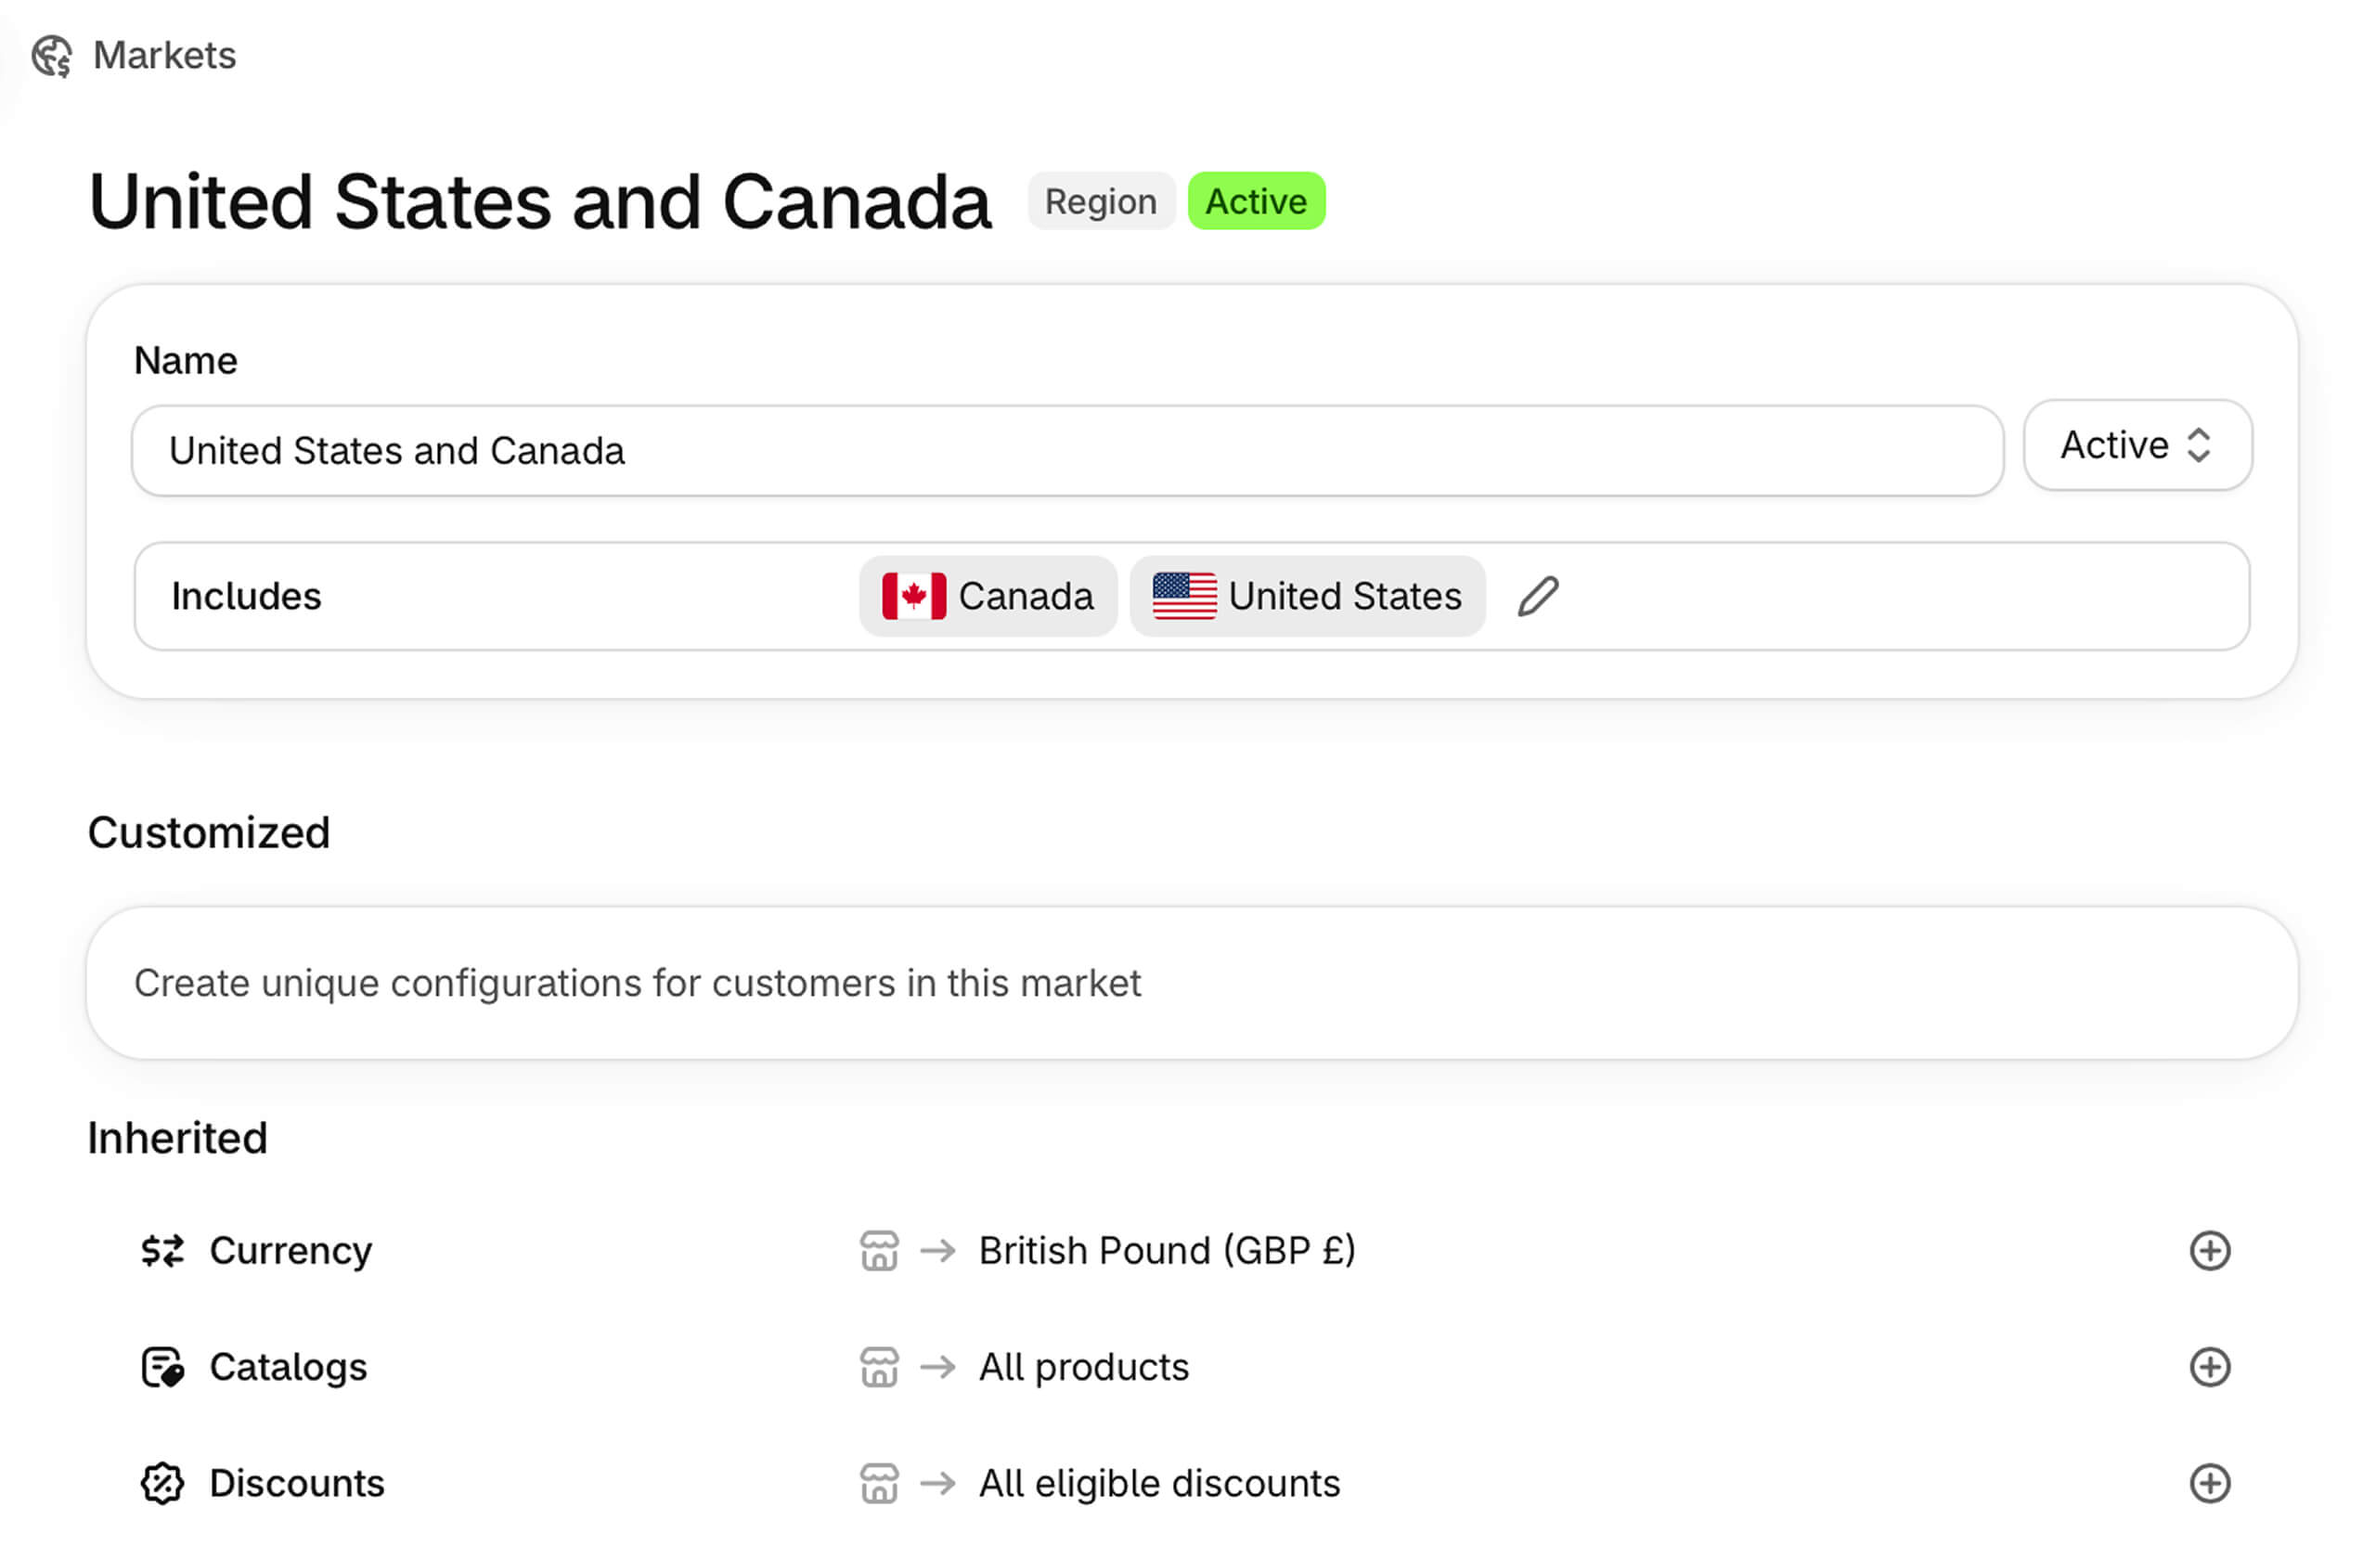
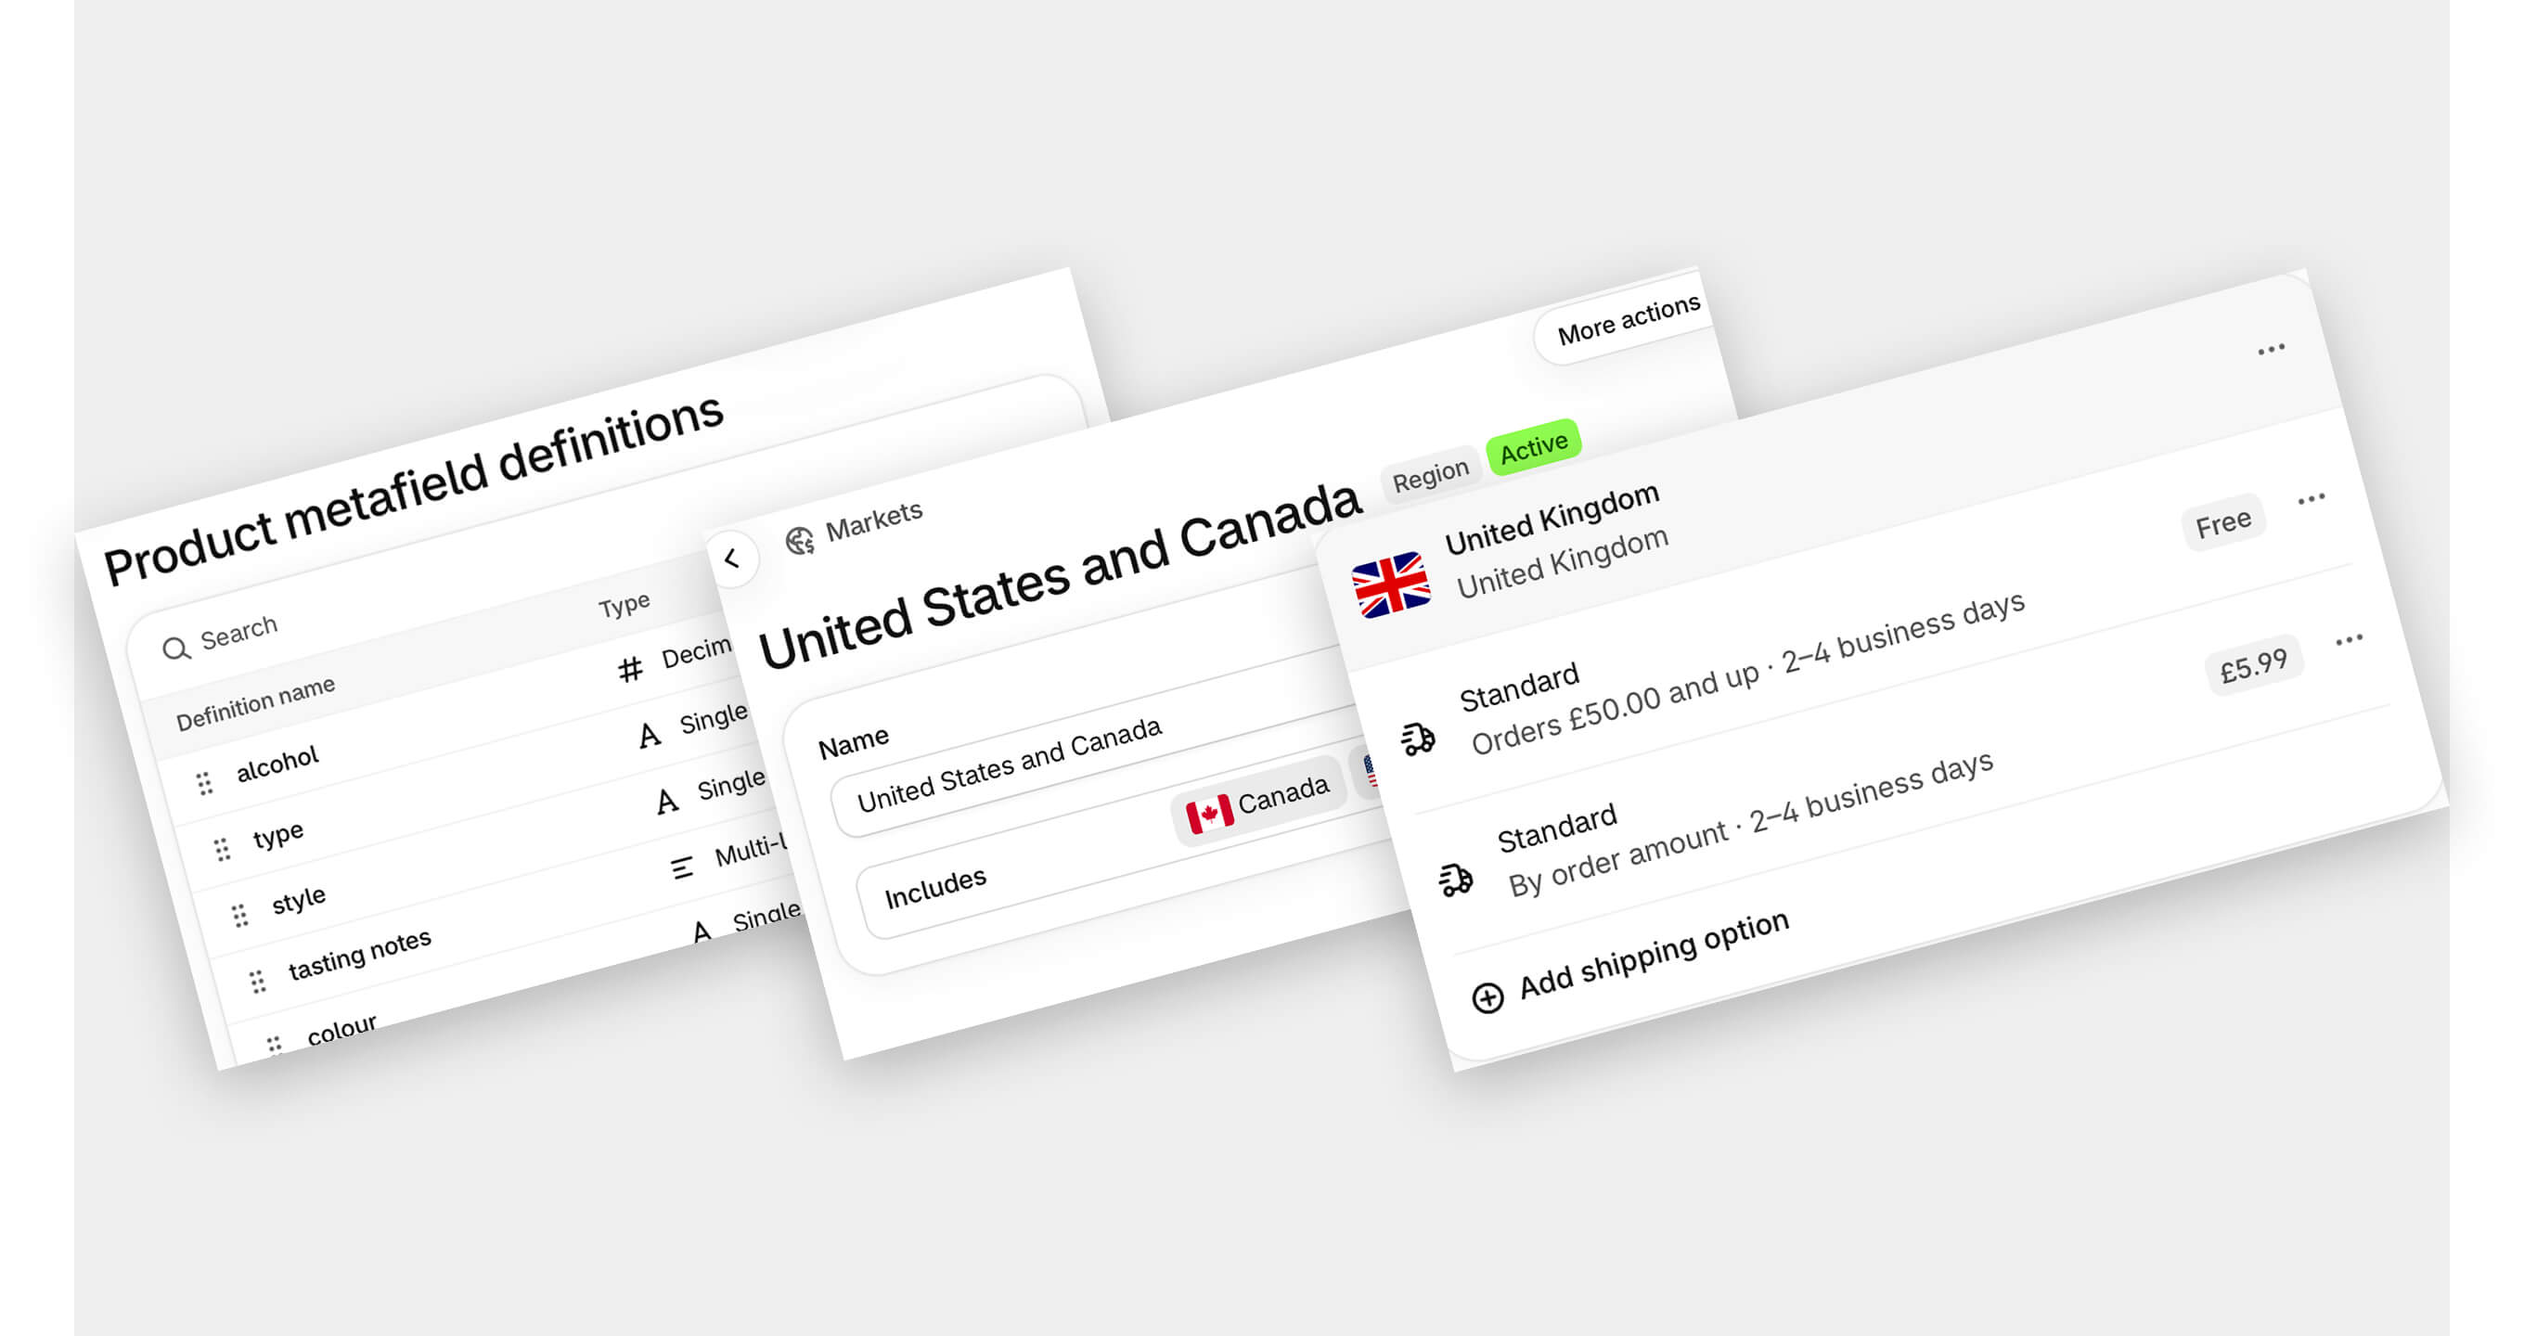
services amends

diff --git a/index.html b/index.html
@@ -66,7 +66,7 @@
       </div>
 
       <!-- grid -->
-      <div class="grid grid-cols-1 md:grid-cols-2 lg:grid-cols-3 gap-4">
+      <div class="grid grid-cols-1 md:grid-cols-2 gap-4">
 
         <!-- Themes -->
         <div class="mx-1 rounded-xl services-bg p-0.5" data-aos="fade-up" data-aos-delay="0">
@@ -125,44 +125,31 @@
           </div>
         </div>
 
-        <div class="mx-1 rounded-xl services-bg p-0.5" data-aos="fade-up" data-aos-delay="150">
-          <div class="rounded-[10px] bg-white p-4 lg:p-6">
-            <img src="/images/shopify-icon.svg" alt="" class="block max-w-18 mb-3">
-            <h3 class="mb-3 text-xl">Custom Sections</h3>
-            <p>Lorem ipsum dolor sit amet, consectetur adipiscing elit, sed do eiusmod tempor incididunt ut labore et dolore magna aliqua. Ut enim ad minim veniam, quis nostrud exercitation ullamco laboris nisi ut aliquip ex ea commodo consequat. </p>
+        <!-- Apps & Email Marketing -->
+        <div class="mx-1 rounded-xl services-bg p-0.5" data-aos="fade-up" data-aos-delay="0">
+          <div class="rounded-[10px] bg-white">
+            <div class="overflow-hidden rounded-t-[10px]">
+              <img src="./images/services-apps.jpg" class="block aspect-video object-cover"/>
+            </div>
+          
+            <div class=" p-4 lg:p-6">
+              <h3 class="mb-3 text-xl">Apps & Email Marketing</h3>
+              <p class="text-gray-600 text-sm">Lorem ipsum dolor sit amet, consectetur adipiscing elit, sed do eiusmod tempor incididunt ut labore et dolore magna aliqua. Ut enim ad minim veniam, quis nostrud exercitation ullamco laboris nisi ut aliquip ex ea commodo consequat. </p>
+            </div>
           </div>
         </div>
 
-        <div class="mx-1 rounded-xl services-bg p-0.5" data-aos="fade-up" data-aos-delay="300">
-          <div class="rounded-[10px] bg-white p-4 lg:p-6">
-            <img src="/images/shopify-icon.svg" alt="" class="block max-w-18 mb-3">
-            <h3 class="mb-3 text-xl">Custom Sections</h3>
-            <p>Lorem ipsum dolor sit amet, consectetur adipiscing elit, sed do eiusmod tempor incididunt ut labore et dolore magna aliqua. Ut enim ad minim veniam, quis nostrud exercitation ullamco laboris nisi ut aliquip ex ea commodo consequat. </p>
-          </div>
-        </div>
-
-
-        <div class="mx-1 rounded-xl services-bg p-0.5" data-aos="fade-up" data-aos-delay="450">
-          <div class="rounded-[10px] bg-white p-4 lg:p-6">
-            <img src="/images/shopify-icon.svg" alt="" class="block max-w-18 mb-3">
-            <h3 class="mb-3 text-xl">Custom Sections</h3>
-            <p>Lorem ipsum dolor sit amet, consectetur adipiscing elit, sed do eiusmod tempor incididunt ut labore et dolore magna aliqua. Ut enim ad minim veniam, quis nostrud exercitation ullamco laboris nisi ut aliquip ex ea commodo consequat. </p>
-          </div>
-        </div>
-
-        <div class="mx-1 rounded-xl services-bg p-0.5" data-aos="fade-up" data-aos-delay="600">
-          <div class="rounded-[10px] bg-white p-4 lg:p-6">
-            <img src="/images/shopify-icon.svg" alt="" class="block max-w-18 mb-3">
-            <h3 class="mb-3 text-xl">Custom Sections</h3>
-            <p>Lorem ipsum dolor sit amet, consectetur adipiscing elit, sed do eiusmod tempor incididunt ut labore et dolore magna aliqua. Ut enim ad minim veniam, quis nostrud exercitation ullamco laboris nisi ut aliquip ex ea commodo consequat. </p>
-          </div>
-        </div>
-
-        <div class="mx-1 rounded-xl services-bg p-0.5" data-aos="fade-up" data-aos-delay="750">
-          <div class="rounded-[10px] bg-white p-4 lg:p-6">
-            <img src="/images/shopify-icon.svg" alt="" class="block max-w-18 mb-3">
-            <h3 class="mb-3 text-xl">Custom Sections</h3>
-            <p>Lorem ipsum dolor sit amet, consectetur adipiscing elit, sed do eiusmod tempor incididunt ut labore et dolore magna aliqua. Ut enim ad minim veniam, quis nostrud exercitation ullamco laboris nisi ut aliquip ex ea commodo consequat. </p>
+        <!-- SEO & Maintenance -->
+        <div class="mx-1 rounded-xl services-bg p-0.5" data-aos="fade-up" data-aos-delay="0">
+          <div class="rounded-[10px] bg-white">
+            <div class="overflow-hidden rounded-t-[10px]">
+              <img src="./images/services-seo.jpg" class="block aspect-video object-cover"/>
+            </div>
+          
+            <div class=" p-4 lg:p-6">
+              <h3 class="mb-3 text-xl">SEO & Maintenance</h3>
+              <p class="text-gray-600 text-sm">Lorem ipsum dolor sit amet, consectetur adipiscing elit, sed do eiusmod tempor incididunt ut labore et dolore magna aliqua. Ut enim ad minim veniam, quis nostrud exercitation ullamco laboris nisi ut aliquip ex ea commodo consequat. </p>
+            </div>
           </div>
         </div>
 
